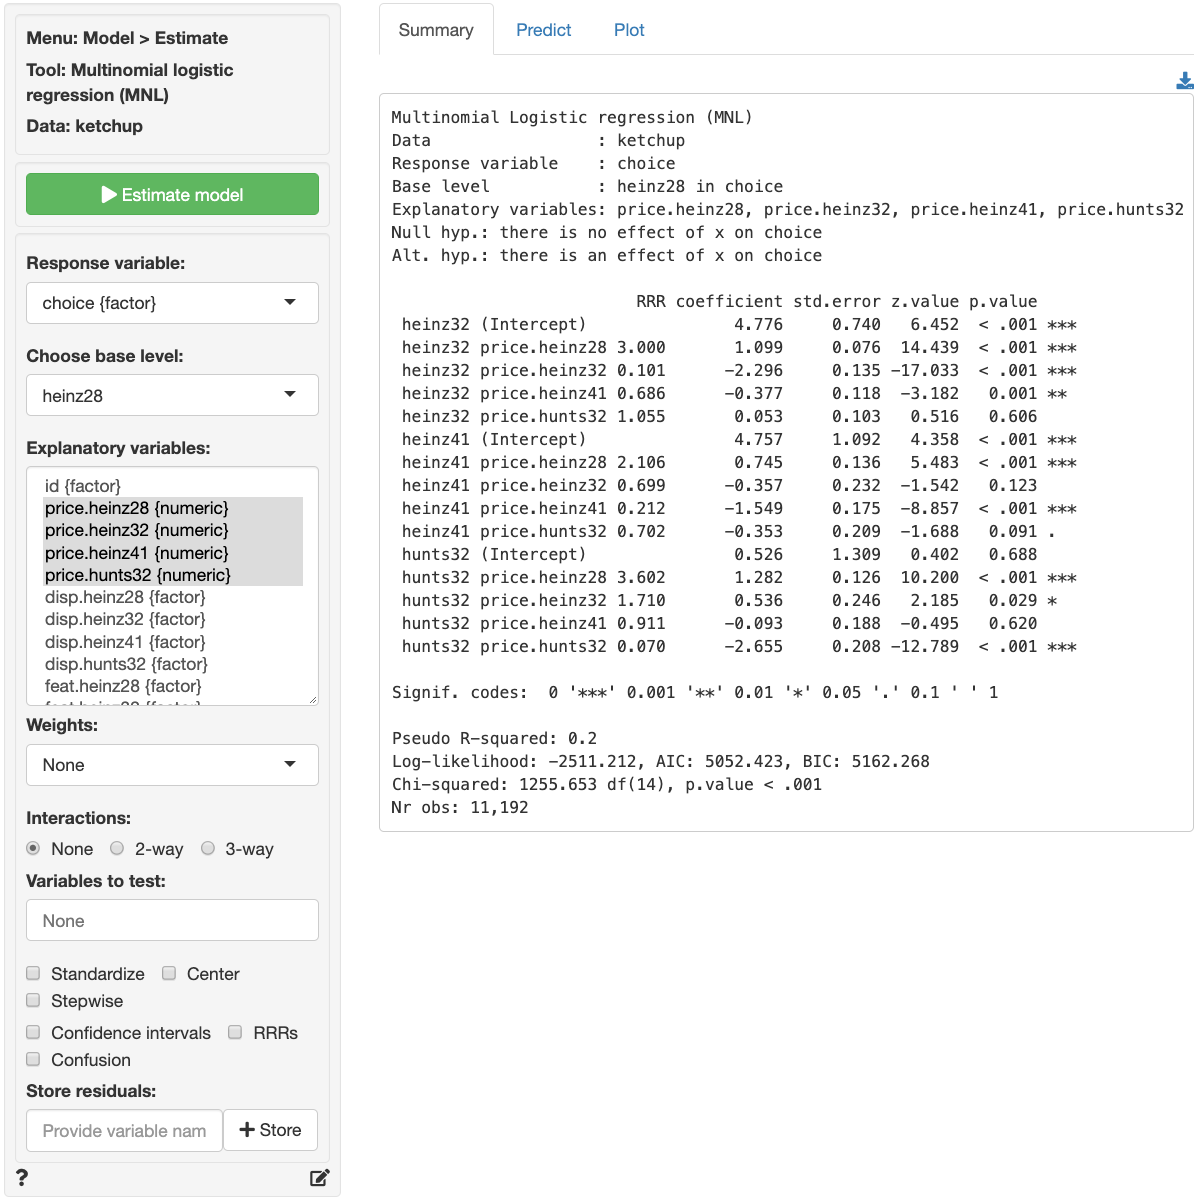
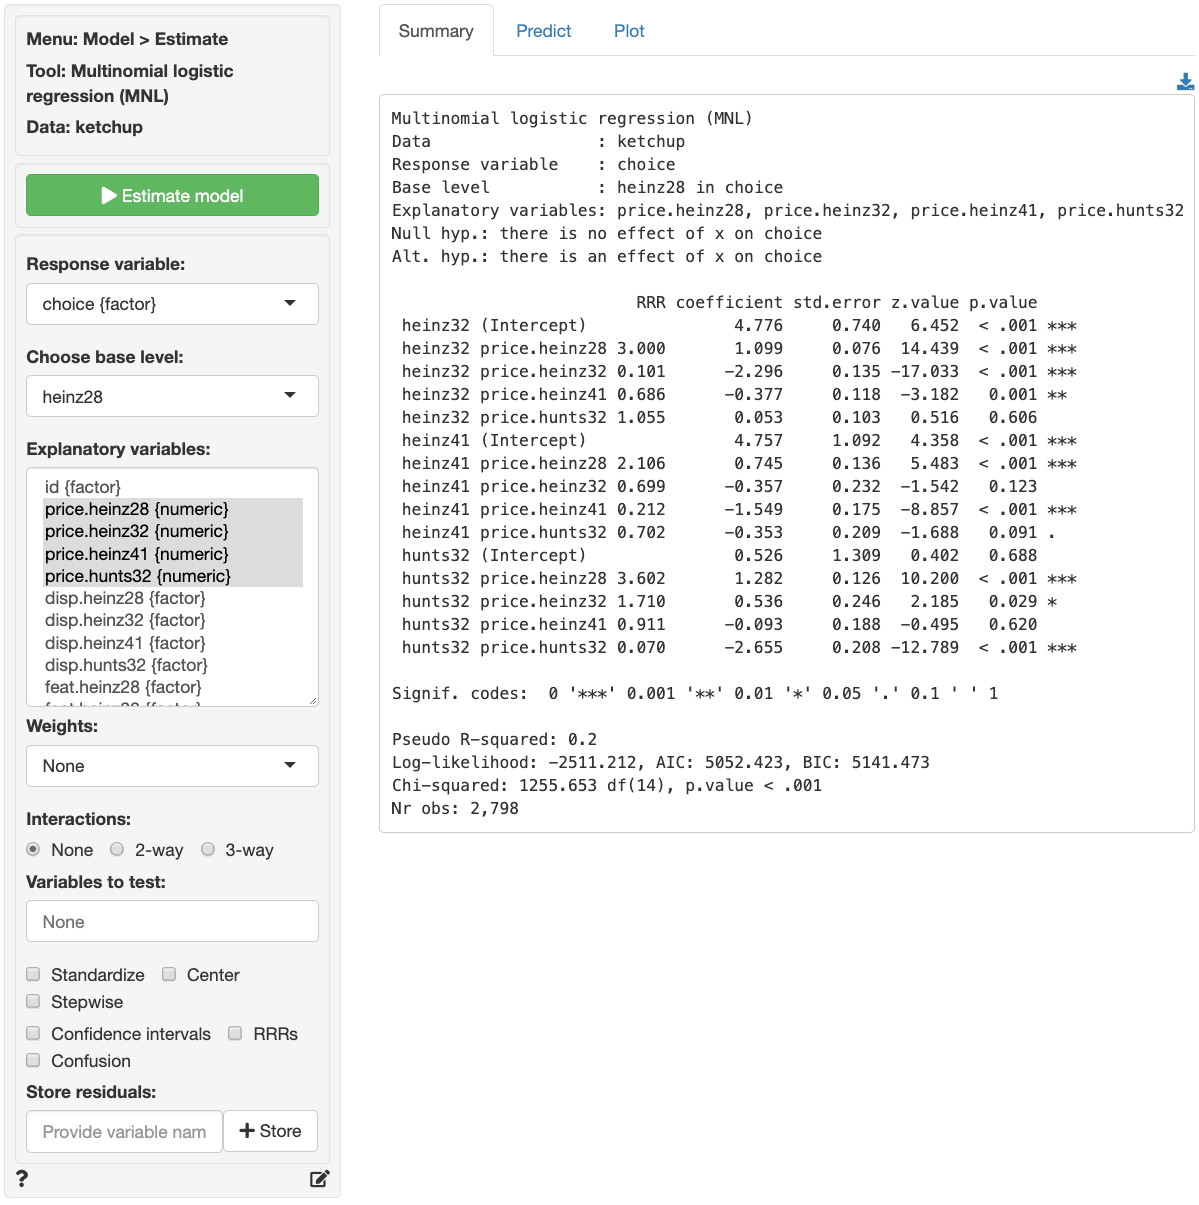
nobs

diff --git a/NEWS.md b/NEWS.md
@@ -1,5 +1,6 @@
-# radiant.model 1.1.8
+# radiant.model 1.1.9
 
+* Fix for `nobs` in _Model > Multinomial logistic regression_.
 * Fix for `write.coeff` for use with _Model > Multinomial logistic regression_
 * Fix for decision trees that reference sub-trees. Environment to evaluate the tree is now explicitly provided. This will now also work with (sub) trees loaded from .yaml files
 * Decision analysis now allows basic formulas in all parts of the tree
